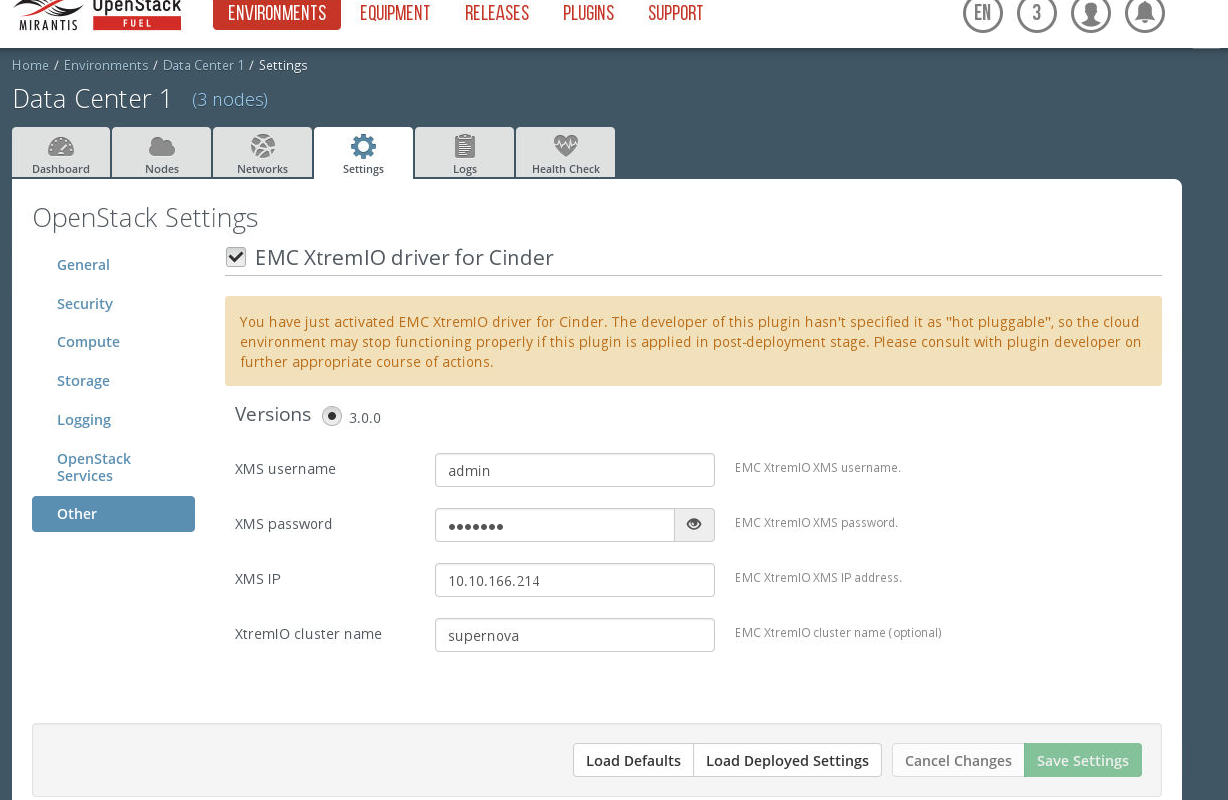
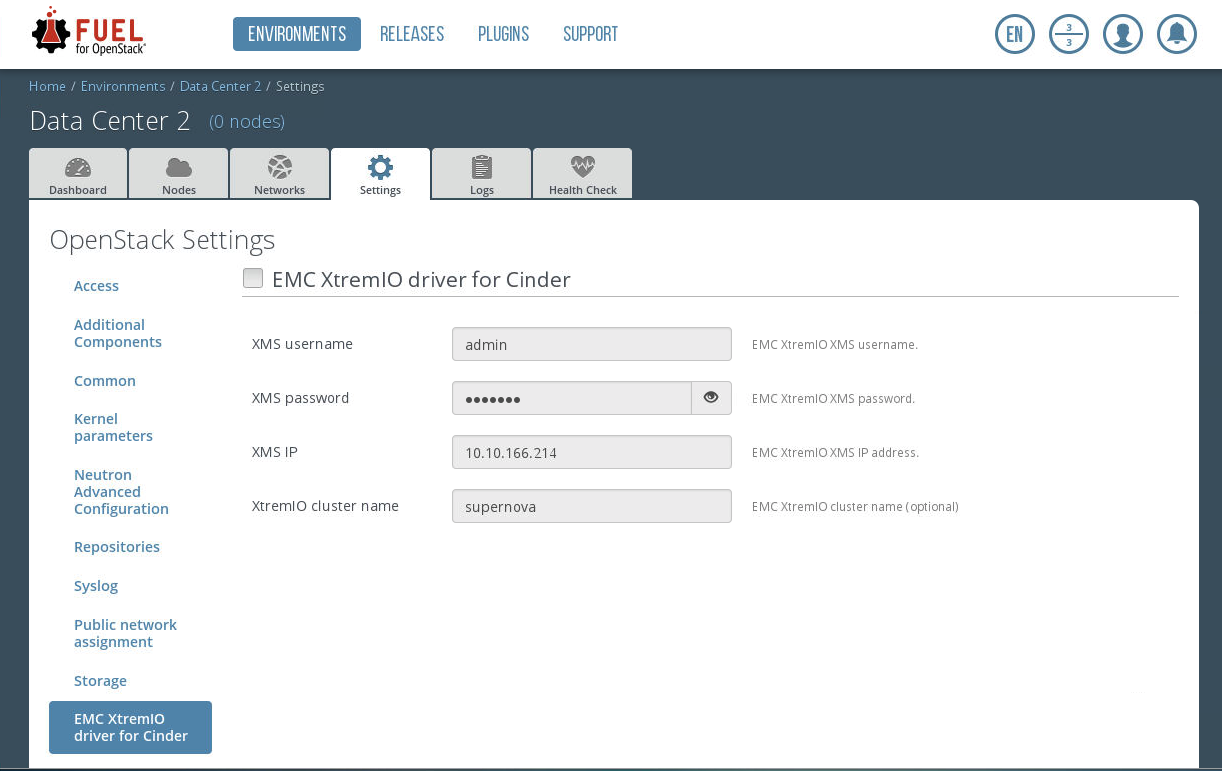
Updated image depicting Plugin in Fuel UI and updated md5 value in test report

diff --git a/doc/source/test-plan.rst b/doc/source/test-plan.rst
@@ -224,7 +224,8 @@ Install plugin and deploy environment
 |                   |                                                                                  |
 |                   | Create environment with enabled XtremIO plugin in fuel UI                        |
 |                   |                                                                                  |
-|                   | Select checkbox \`EMC XtremIO driver for Cinder\` under Settings/Storage         |
+|                   | Select checkbox \`EMC XtremIO driver for Cinder\` under Settings/EMC XtremIO     |
+|                   | driver for Cinder                                                                |             
 |                   |                                                                                  |
 |                   | Specify \`XMS username\` \`XMS password\` \`XMS IP\`                             |
 |                   |                                                                                  |
@@ -283,7 +284,8 @@ Install plugin, create local mirror and deploy environment
 |                   |                                                                                  |
 |                   | Create environment with enabled XtremIO plugin in fuel UI                        |
 |                   |                                                                                  |
-|                   | Select checkbox \`EMC XtremIO driver for Cinder\` under Settings/Storage         |
+|                   | Select checkbox \`EMC XtremIO driver for Cinder\` under Settings/EMC XtremIO     |
+|                   | driver for Cinder                                                                |
 |                   |                                                                                  |
 |                   | Specify \`XMS username\` \`XMS password\` \`XMS IP\`                             |
 |                   |                                                                                  |
@@ -352,7 +354,8 @@ Modifying env with enabled plugin (removing/adding controller nodes)
 |                   |                                                                                  |
 |                   | Create environment with enabled XtremIO plugin in fuel UI                        |
 |                   |                                                                                  |
-|                   | Select checkbox \`EMC XtremIO driver for Cinder\` under Settings/Storage         |
+|                   | Select checkbox \`EMC XtremIO driver for Cinder\` under Settings/EMC XtremIO     |
+|                   | driver for Cinder                                                                |
 |                   |                                                                                  |
 |                   | Specify \`XMS username\`  \`XMS password\` \`XMS IP\`                            |
 |                   |                                                                                  |
@@ -448,7 +451,8 @@ Modifying env with enabled plugin (removing/adding compute node)
 |                   |                                                                                  |
 |                   | Create environment with enabled XtremIO plugin in fuel UI                        |
 |                   |                                                                                  |
-|                   | Select checkbox \`EMC XtremIO driver for Cinder\` under Settings/Storage         |
+|                   | Select checkbox \`EMC XtremIO driver for Cinder\` under Settings/EMC XtremIO     |
+|                   | driver for Cinder                                                                |
 |                   |                                                                                  |
 |                   | Specify \`XMS username\`  \`XMS password\`   \`XMS IP\`                          |
 |                   |                                                                                  |
@@ -456,7 +460,7 @@ Modifying env with enabled plugin (removing/adding compute node)
 |                   |                                                                                  |
 |                   | Add 2 nodes with Controller & Cinder roles                                       |
 |                   |                                                                                  |
-|                   | Add 2 nodes with Compute role                                                     |
+|                   | Add 2 nodes with Compute role                                                    |
 |                   |                                                                                  |
 |                   | Apply network settings                                                           |
 |                   |                                                                                  |

diff --git a/doc/source/test-plan-report.rst b/doc/source/test-plan-report.rst
@@ -72,7 +72,7 @@ Plugin's RPM
 +------------------------------------+----------------------------------+
 | **Name**                           |  MD5 Checksum                    |
 +====================================+==================================+
-| emc_xtremio-1.0-1.0.1-1.noarch.rpm | 28a3fafcf35f7e3b9bf2ef6afdb90471 |
+| emc_xtremio-1.0-1.0.1-1.noarch.rpm | 9d773ab9003c4061ac15ff972998ef70 |
 +------------------------------------+----------------------------------+
 
 Test Coverage and Metrics
@@ -125,7 +125,7 @@ Detailed testrun results
 +------------+----------------------------+--------------+--------------+---------------+---------------+
 | 6          | uninstall\_plugin          |      *       |              |               |               |
 +------------+----------------------------+--------------+--------------+---------------+---------------+
-| 7          | apply\_mu                  |              |              |       *       |               |
+| 7          | apply\_mu                  |      *       |              |               |               |
 |            |                            |              |              |               |               |
 |            |                            |              |              |               |               |
 +------------+----------------------------+--------------+--------------+---------------+---------------+
